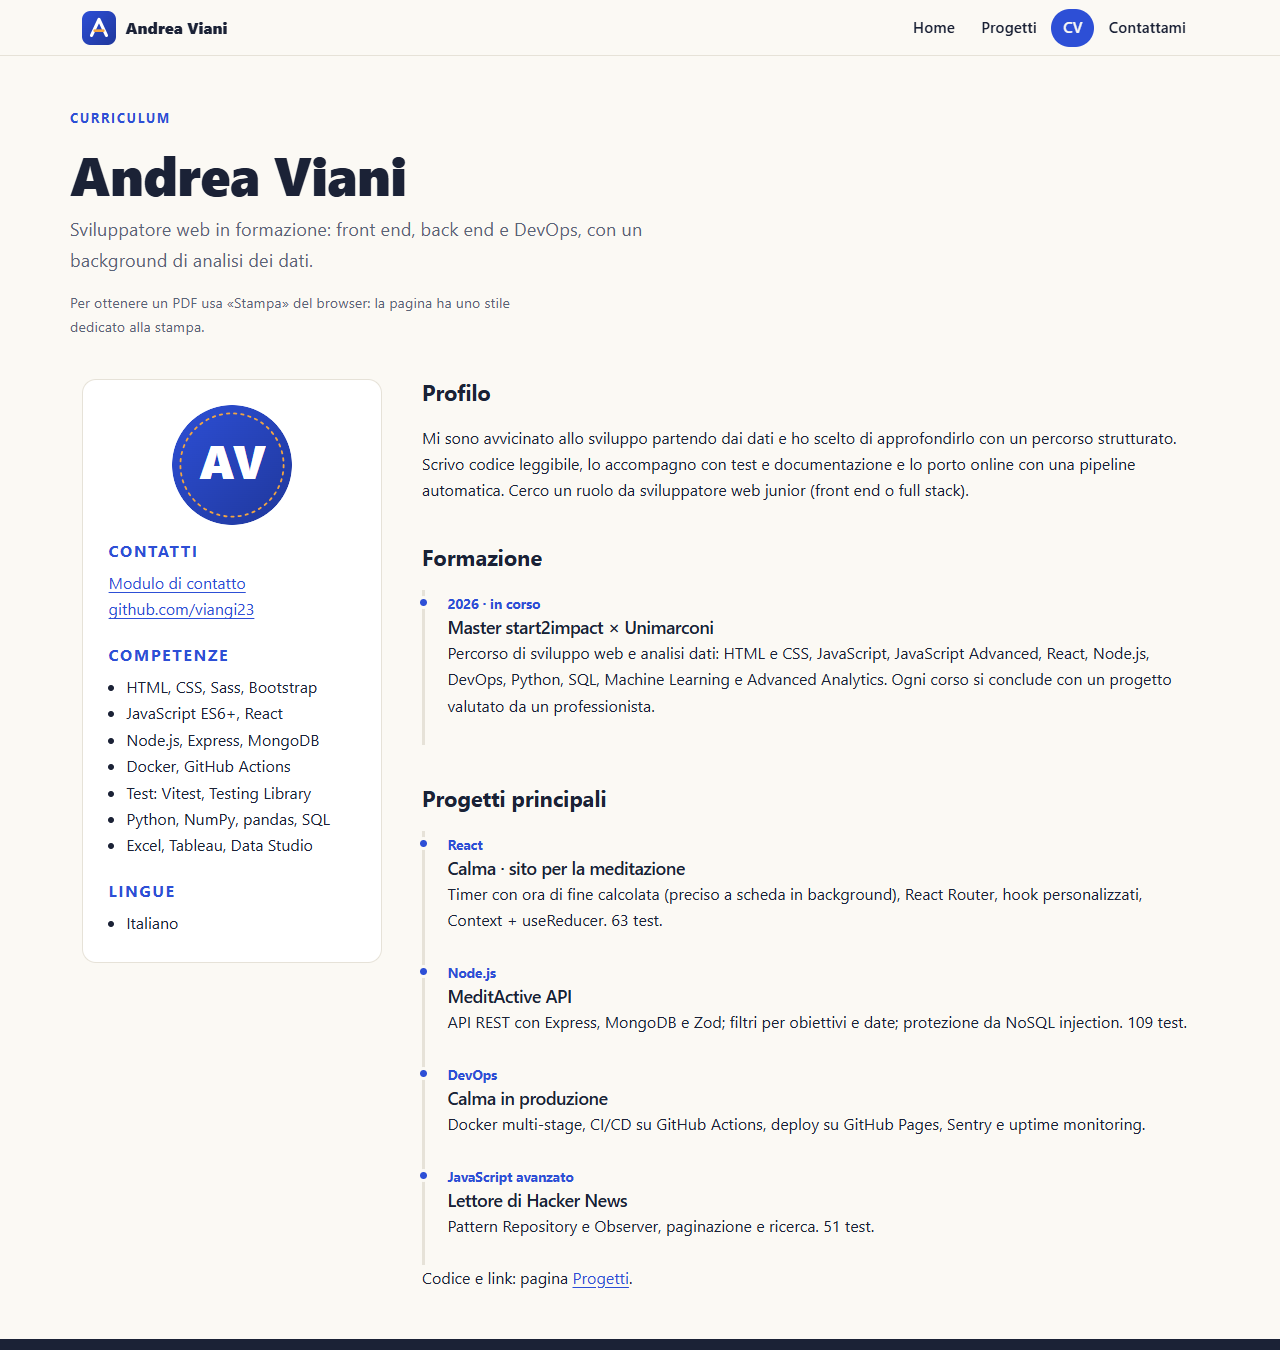
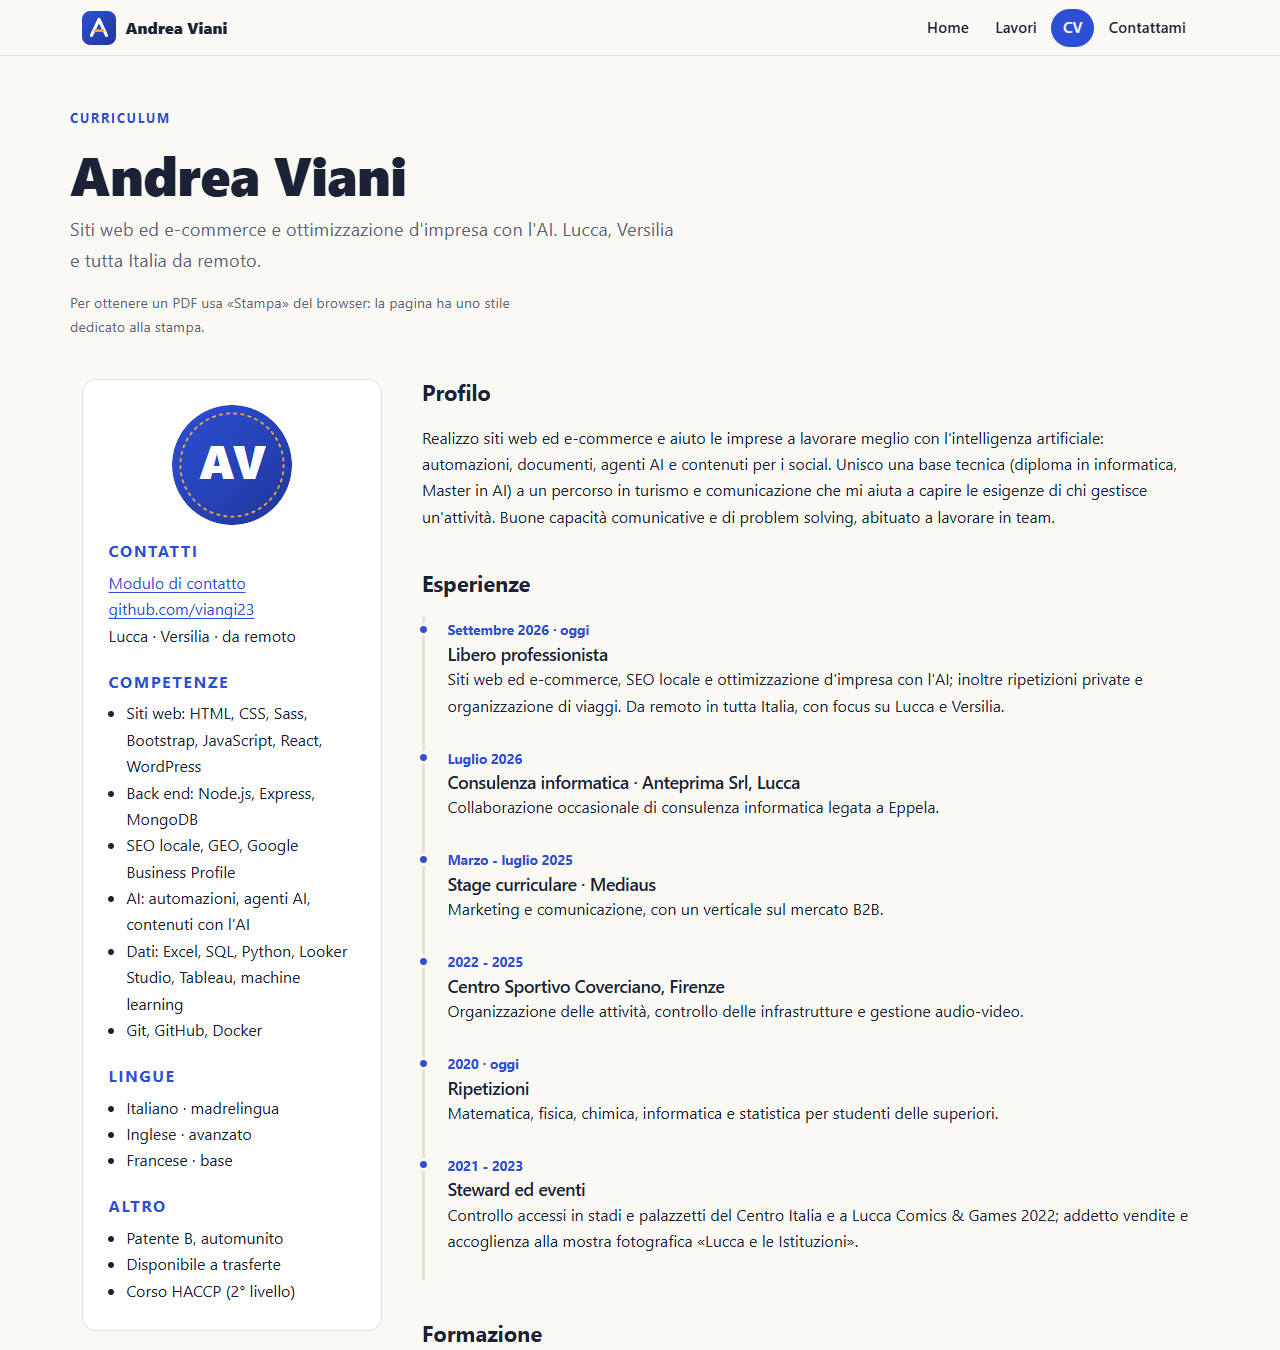
Nasconde i link dei progetti del Master non pubblicati, aggiorna README e presentazione

diff --git a/presentazione-sorgente/presentazione.html b/presentazione-sorgente/presentazione.html
@@ -30,7 +30,7 @@
 <section class="slide cover">
   <div class="tag">Progetto HTML e CSS · Master start2impact / Unimarconi</div>
   <h1>Il mio sito personale<br>Andrea Viani</h1>
-  <p>Portfolio in HTML e CSS con Sass e Bootstrap: home, progetti, CV e modulo di contatto</p>
+  <p>Siti web e AI per le imprese: il sito della mia attività in HTML e CSS, con Sass e Bootstrap</p>
   <p style="margin-top:6mm;font-size:13pt">Andrea Viani</p>
   <div class="linkbox">
     <p>🔗 <b>Repository GitHub:</b> <a href="https://github.com/viangi23/progetto-html-css-portfolio">https://github.com/viangi23/progetto-html-css-portfolio</a></p>
@@ -44,14 +44,14 @@
     <div class="col" style="flex:.85">
       <div class="card hot">
         <div class="lab">A chi parla</div>
-        <p>A chi recluta o cerca uno sviluppatore web: in pochi secondi deve capire chi sono, cosa so fare e come contattarmi. Il pulsante «Scrivimi» e il menu sono sempre a portata di mano.</p>
+        <p>A imprese e attività locali (Lucca, Versilia e tutta Italia da remoto) che cercano un sito o vogliono lavorare meglio con l'AI, e ad agenzie e aziende che cercano un collaboratore. In pochi secondi devono capire chi sono, cosa faccio e come contattarmi: il pulsante «Raccontami il tuo progetto» e il menu sono sempre a portata di mano.</p>
       </div>
       <div class="card">
         <div class="lab">Cosa mostro</div>
         <ul>
-          <li>Competenze raggruppate in front end, back end/DevOps e dati.</li>
-          <li>Progetti reali del Master, con tecnologie, numero di test e link al codice.</li>
-          <li>CV in HTML, stampabile in PDF.</li>
+          <li>Quattro servizi chiari: siti ed e-commerce, visibilità online (SEO e GEO), ottimizzazione con l'AI, contenuti social con l'AI.</li>
+          <li>Lavori reali per i clienti, descritti senza nome per riservatezza, e i progetti del Master.</li>
+          <li>CV in HTML con esperienze e formazione reali, stampabile in PDF.</li>
           <li>Contatti con un modulo: niente email in chiaro, per non finire negli elenchi dei bot di spam.</li>
         </ul>
       </div>
@@ -63,7 +63,7 @@
         <tr><td>CV in HTML + pagina contatti con form</td><td><code>cv.html</code>, <code>contattami.html</code></td></tr>
         <tr><td>Framework front end</td><td>Bootstrap 5 (griglia, form, utility)</td></tr>
         <tr><td>Favicon</td><td><code>favicon.svg</code></td></tr>
-        <tr><td>Menu sticky</td><td><code>sticky-top</code> su ogni schermo; su mobile menu «hamburger» <b>solo CSS</b> <span class="new">NUOVO</span></td></tr>
+        <tr><td>Menu sticky</td><td><code>sticky-top</code> su ogni schermo; su mobile menu «hamburger» <b>solo CSS</b></td></tr>
         <tr><td>Flexbox / Grid</td><td>Grid per le sezioni, Flexbox per menu, footer e card</td></tr>
         <tr><td>Sass</td><td><code>scss/</code> → <code>css/style.css</code></td></tr>
         <tr><td>100% responsive</td><td>mobile-first, nessuno scroll orizzontale a 320, 375, 550, 800 e 1280 px</td></tr>
@@ -78,7 +78,7 @@
 <section class="slide">
   <h2>Home e design</h2>
   <div class="cols">
-    <div class="col" style="flex:1.55"><img class="shot" src="home.png" alt="Home del sito" style="height:132mm;width:100%"><div class="cap">Home: presentazione, chi sono, competenze e progetti in evidenza</div></div>
+    <div class="col" style="flex:1.55"><img class="shot" src="home.png" alt="Home del sito" style="height:132mm;width:100%"><div class="cap">Home: presentazione, chi sono, servizi e lavori in evidenza</div></div>
     <div class="col">
       <div class="card hot">
         <div class="lab">Scelte di design</div>
@@ -87,7 +87,8 @@
           <li><b>Tipografia</b>: caratteri di sistema (nessun font esterno = pagina veloce) e titoli fluidi con <code>clamp()</code>.</li>
           <li><b>Gerarchia</b>: un solo titolo grande per pagina, sezioni alternate chiare/tinta per guidare la lettura.</li>
           <li>Illustrazioni <b>SVG</b> leggere al posto delle foto.</li>
-          <li>Testo e illustrazione della home <b>entrano con un'animazione</b> CSS, disattivata per chi riduce le animazioni. <span class="new">NUOVO</span></li>
+          <li><b>Testi</b> rivolti al cliente: cosa ottiene (più clienti, meno tempo perso), non solo quali tecnologie uso.</li>
+          <li>Testo e illustrazione della home <b>entrano con un'animazione</b> CSS, disattivata per chi riduce le animazioni.</li>
         </ul>
       </div>
     </div>
@@ -96,9 +97,9 @@
 </section>
 
 <section class="slide">
-  <h2>Progetti e CV</h2>
+  <h2>Lavori e CV</h2>
   <div class="cols">
-    <div class="col"><img class="shot" src="progetti.png" alt="Pagina progetti" style="height:128mm;width:100%"><div class="cap">Progetti: card con tecnologie e link</div></div>
+    <div class="col"><img class="shot" src="progetti.png" alt="Pagina progetti" style="height:128mm;width:100%"><div class="cap">Lavori: clienti e progetti del Master in card con Flexbox</div></div>
     <div class="col"><img class="shot" src="cv.png" alt="Pagina CV" style="height:128mm;width:100%"><div class="cap">CV: barra laterale + linea del tempo, con stile di stampa</div></div>
   </div>
   <div class="foot"><span>Progetto HTML e CSS – Andrea Viani</span><span>4</span></div>
@@ -114,8 +115,8 @@
         <div class="lab">Il modulo</div>
         <ul>
           <li>campi <code>required</code>, <code>type="email"</code>, <code>minlength</code>, etichette collegate</li>
-          <li><b>validazione solo CSS</b>: dopo aver toccato un campo errato compare il bordo rosso e un aiuto (<code>:user-invalid</code>) <span class="new">NUOVO</span></li>
-          <li>campo trappola per i bot; invio via FormSubmit, senza JavaScript e senza mostrare la mia email</li>
+          <li><b>validazione solo CSS</b>: dopo aver toccato un campo errato compare il bordo rosso e un aiuto (<code>:user-invalid</code>)</li>
+          <li>campo trappola per i bot; invio <b>attivo</b> via FormSubmit, senza JavaScript: nell'<code>action</code> c'è un codice al posto della mia email</li>
         </ul>
       </div>
       <div class="card">
@@ -227,8 +228,9 @@ npm run sass  →  css/style.css</pre>
       <div class="card">
         <div class="lab">Prossimi passi</div>
         <ul>
-          <li>Aggiungere foto, esperienze e profili social</li>
-          <li>Inserire i progetti futuri nel portfolio</li>
+          <li>Pubblicare su GitHub gli altri progetti del Master e collegarli</li>
+          <li>Aggiungere i nuovi lavori per i clienti, con il loro permesso</li>
+          <li>Profili social professionali</li>
           <li>Un interruttore manuale chiaro/scuro (servirà un po' di JavaScript)</li>
         </ul>
       </div>

diff --git a/progetti.html b/progetti.html
@@ -112,7 +112,7 @@
     <section class="section section--tint" aria-labelledby="master-titolo">
       <div class="container">
         <h2 id="master-titolo" class="h3 mb-2">Progetti del Master</h2>
-        <p class="mb-4">Progetti dei corsi di sviluppo web e dati del Master Unimarconi × start2impact, con codice, test e documentazione.</p>
+        <p class="mb-4">Progetti dei corsi di sviluppo web e dati del Master Unimarconi × start2impact, con codice, test e documentazione. Codice e demo online in arrivo su GitHub.</p>
         <div class="row g-4">
           <div class="col-md-6 col-lg-4">
             <article class="project-card">
@@ -120,10 +120,6 @@
               <h3>Contatore interattivo</h3>
               <p>Applicazione in JavaScript puro: interfaccia creata dal DOM, stato separato dalla grafica, passo personalizzabile, tastiera e tema scuro.</p>
               <ul class="chips"><li class="chip">JavaScript</li><li class="chip">DOM</li><li class="chip">16 test</li></ul>
-              <div class="project-card__links">
-                <a href="https://viangi23.github.io/progetto-javascript-counter/" target="_blank" rel="noopener">Sito online</a>
-                <a href="https://github.com/viangi23/progetto-javascript-counter" target="_blank" rel="noopener">Codice</a>
-              </div>
             </article>
           </div>
           <div class="col-md-6 col-lg-4">
@@ -132,10 +128,6 @@
               <h3>Lettore di Hacker News</h3>
               <p>Ultime notizie dall'API di Hacker News, 10 alla volta con «Load more»: pattern Repository e Observer e gestione degli errori di rete.</p>
               <ul class="chips"><li class="chip">Vite</li><li class="chip">Axios</li><li class="chip">53 test</li></ul>
-              <div class="project-card__links">
-                <a href="https://viangi23.github.io/progetto-javascript-advanced-hacker-news/" target="_blank" rel="noopener">Sito online</a>
-                <a href="https://github.com/viangi23/progetto-javascript-advanced-hacker-news" target="_blank" rel="noopener">Codice</a>
-              </div>
             </article>
           </div>
           <div class="col-md-6 col-lg-4">
@@ -144,10 +136,6 @@
               <h3>Calma · meditazione</h3>
               <p>Sito per la meditazione con timer preciso anche a scheda in background, guida, suoni e diario delle sessioni.</p>
               <ul class="chips"><li class="chip">React</li><li class="chip">Router</li><li class="chip">63 test</li></ul>
-              <div class="project-card__links">
-                <a href="https://viangi23.github.io/progetto-react-meditazione/" target="_blank" rel="noopener">Sito online</a>
-                <a href="https://github.com/viangi23/progetto-react-meditazione" target="_blank" rel="noopener">Codice</a>
-              </div>
             </article>
           </div>
           <div class="col-md-6 col-lg-4">
@@ -156,9 +144,6 @@
               <h3>MeditActive API</h3>
               <p>API REST per utenti, obiettivi e intervalli con filtri, validazione dei dati e difese contro la NoSQL injection.</p>
               <ul class="chips"><li class="chip">Express</li><li class="chip">MongoDB</li><li class="chip">109 test</li></ul>
-              <div class="project-card__links">
-                <a href="https://github.com/viangi23/progetto-nodejs-meditactive-api" target="_blank" rel="noopener">Codice</a>
-              </div>
             </article>
           </div>
           <div class="col-md-6 col-lg-4">
@@ -167,9 +152,6 @@
               <h3>Calma in produzione</h3>
               <p>Container Docker multi-stage, pipeline CI/CD su GitHub Actions, error tracking con Sentry e uptime monitoring.</p>
               <ul class="chips"><li class="chip">Docker</li><li class="chip">GitHub Actions</li><li class="chip">Sentry</li></ul>
-              <div class="project-card__links">
-                <a href="https://github.com/viangi23/progetto-devops-calma" target="_blank" rel="noopener">Codice</a>
-              </div>
             </article>
           </div>
           <div class="col-md-6 col-lg-4">

diff --git a/README.md b/README.md
@@ -9,8 +9,8 @@ Portfolio realizzato **solo con HTML e CSS** (Sass + Bootstrap) per il corso *HT
 
 | Pagina | Contenuto |
 |---|---|
-| `index.html` | Home: presentazione, chi sono, competenze, progetti in evidenza |
-| `progetti.html` | Elenco dei progetti con tecnologie e link a sito e codice |
+| `index.html` | Home: presentazione, chi sono, servizi, lavori in evidenza |
+| `progetti.html` (Lavori) | Lavori per i clienti e progetti del Master |
 | `cv.html` | **CV in HTML**, con stile dedicato alla stampa (si salva in PDF dal browser) |
 | `contattami.html` | **Form di contatto** con validazione HTML (`required`, `type="email"`, `minlength`) |
 | `grazie.html` | Pagina mostrata dopo l'invio del modulo |
@@ -80,11 +80,11 @@ Dopo l'invio l'utente torna sulla pagina `grazie.html` (campo nascosto `_next`).
 
 In alternativa si può usare EmailJS (richiede JavaScript, fuori dal vincolo «solo HTML e CSS»).
 
-## Cose da personalizzare
+## Contenuti
 
-I contenuti sono scritti solo con ciò che emerge dal percorso del Master. Prima di consegnare rivedi:
+Il sito presenta l'attività reale di Andrea: **siti web e AI per le imprese**, a Lucca, in Versilia e in tutta Italia da remoto.
 
-- il testo «Cerco un ruolo da sviluppatore web junior» (home, CV, contatti) e le percentuali delle barre delle competenze (sono un'autovalutazione);
-- aggiungi **formazione ed esperienze precedenti** nel CV (`cv.html`, sezione *Formazione*) e i link ai tuoi profili social;
-- se vuoi una **foto**, salva `img/foto.jpg` e sostituisci `img/avatar.svg` in home e CV (mantieni `alt`);
-- verifica username GitHub e link dei progetti (i repository vanno creati/pubblicati).
+- **Home**: posizionamento, chi sono, quattro servizi (siti ed e-commerce, visibilità online, ottimizzazione con l'AI, contenuti social con l'AI), lavori in evidenza.
+- **Lavori** (`progetti.html`): lavori per i clienti, descritti senza nome per riservatezza, e progetti del Master. I link a codice e demo dei progetti del Master verranno aggiunti quando i rispettivi repository saranno pubblicati.
+- **CV**: esperienze, formazione, competenze e lingue; nessuna foto, per scelta.
+- La presentazione PDF della consegna si genera da `presentazione-sorgente/presentazione.html` (Chrome → Stampa in PDF, A4 orizzontale).
